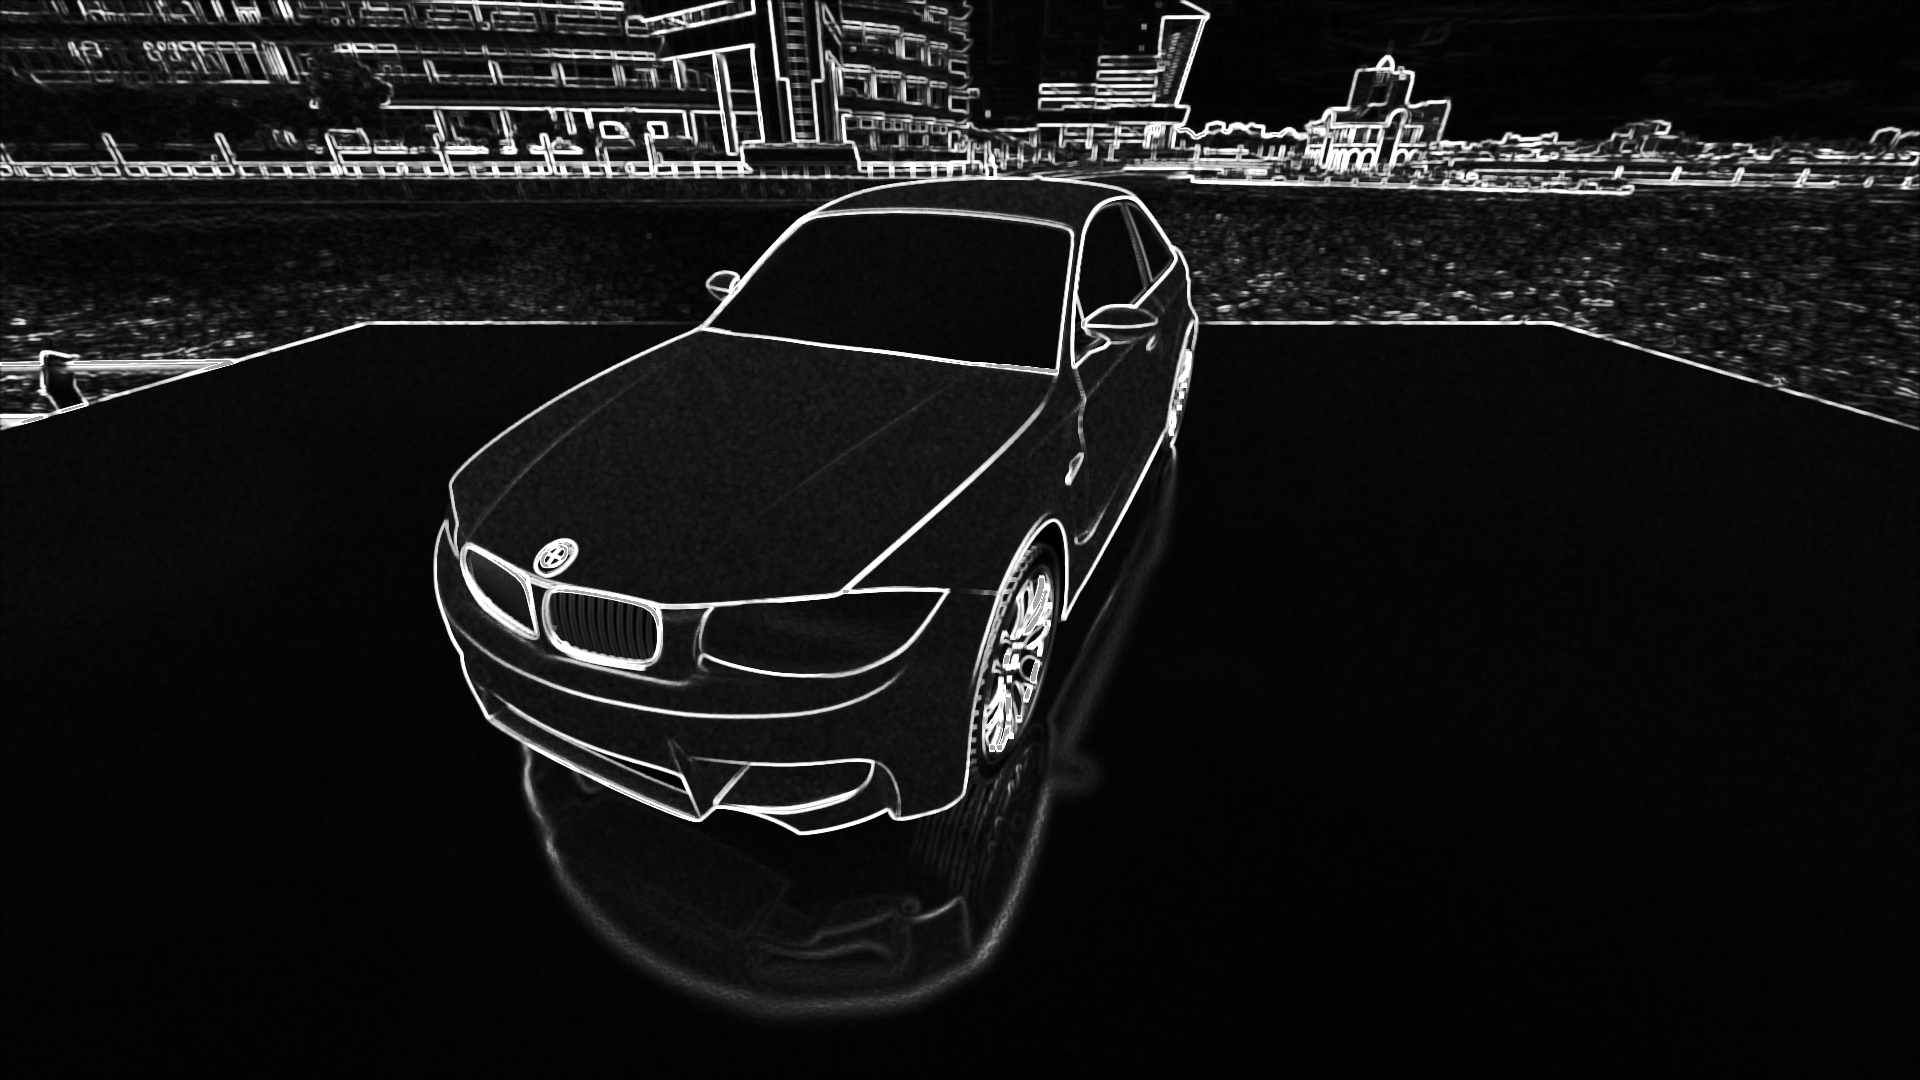
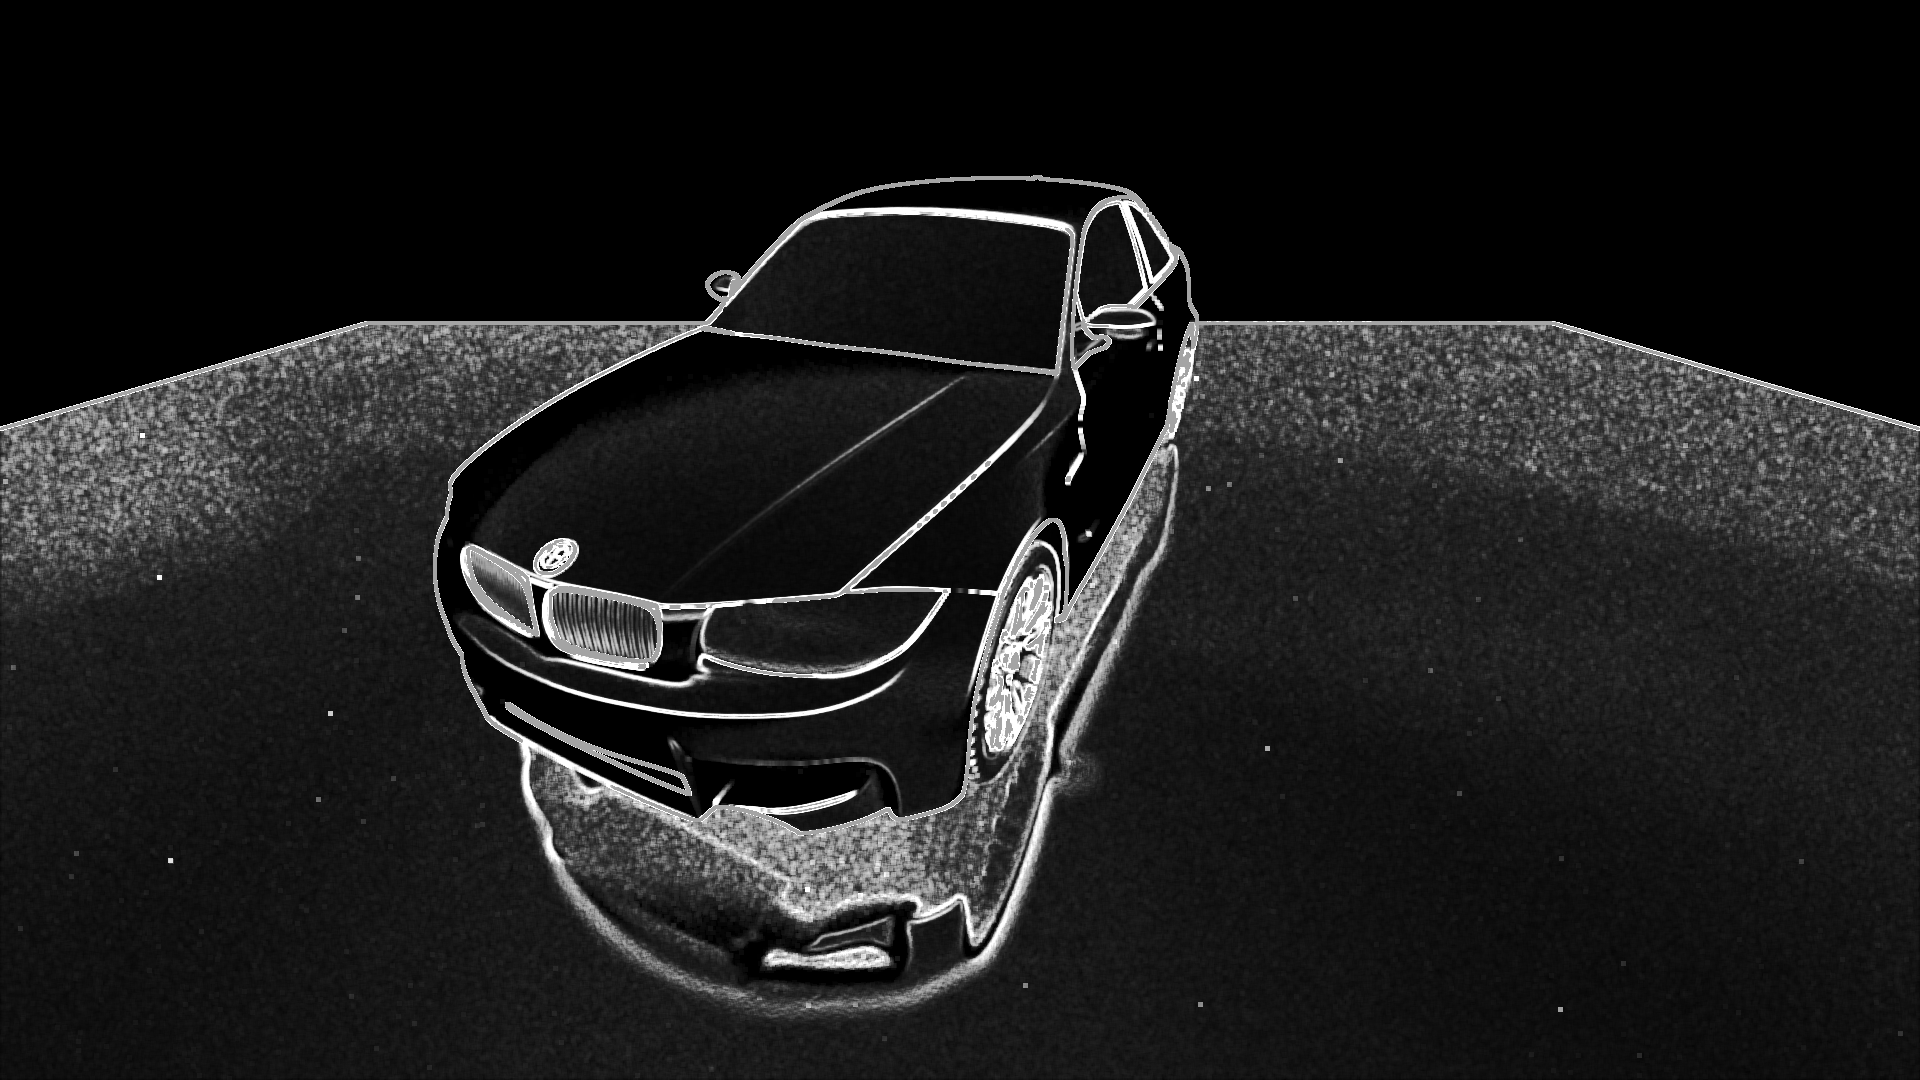
Adding standard deviation

diff --git a/ForceRenderer/Renderers/TileWorker.cs b/ForceRenderer/Renderers/TileWorker.cs
@@ -29,6 +29,8 @@ namespace ForceRenderer.Renderers
 						 Name = $"Tile Worker #{id} {size}x{size}"
 					 };
 
+			for (int i = 0; i < pixels.Length; i++) pixels[i] = Pixel.Create();
+
 			//Create golden ratio square spiral for pixel sample offsets
 			pixelOffsets = new Float2[profile.pixelSample];
 
@@ -156,7 +158,7 @@ namespace ForceRenderer.Renderers
 
 			ref Pixel pixel = ref pixels[pixelIndex];
 			RenderBuffer.SetPixel(position, pixel.Color);
-			pixel = default;
+			pixel.Clear();
 		}
 
 		Int2 ToBufferPosition(int pixelIndex)
@@ -198,30 +200,104 @@ namespace ForceRenderer.Renderers
 
 		struct Pixel
 		{
-			double r;
-			double g;
-			double b;
+			public static Pixel Create() => new Pixel(new object());
+			Pixel(object locker) : this() => this.locker = locker;
+
+			Double3 average;
+			Double3 squared;
 
 			int accumulation;
+			readonly object locker;
+
+			public const double MinDeviationThreshold = 0.3d;
 
 			/// <summary>
 			/// Returns the color average
 			/// </summary>
-			public Color32 Color => new Color32((float)(r / accumulation), (float)(g / accumulation), (float)(b / accumulation));
+			public Color32 Color
+			{
+				get
+				{
+					lock (locker) return (Color32)(Float3)average;
+				}
+			}
+
+			/// <summary>
+			/// Returns the standard deviation of the pixel
+			/// </summary>
+			public float Deviation
+			{
+				get
+				{
+					lock (locker)
+					{
+						double deviation = Math.Sqrt(squared.Max / accumulation);
+						double max = Math.Max(average.Max, MinDeviationThreshold);
+
+						return (float)(deviation / max);
+					}
+				}
+			}
 
 			/// <summary>
 			/// Accumulates the color <paramref name="value"/> to pixel in a thread-safe manner.
 			/// </summary>
 			public void Accumulate(Float3 value)
 			{
-				if (float.IsNaN(value.Sum)) return; //NaN gate
+				if (float.IsNaN(value.x) || float.IsNaN(value.y) || float.IsNaN(value.z)) return; //NaN gate
 
-				InterlockedHelper.Add(ref r, value.x);
-				InterlockedHelper.Add(ref g, value.y);
-				InterlockedHelper.Add(ref b, value.z);
+				lock (locker)
+				{
+					accumulation++;
 
-				Interlocked.Increment(ref accumulation);
+					Double3 oldMean = average;
+					Double3 newValue = value;
+
+					average += (newValue - oldMean) / accumulation;
+					squared += (newValue - average) * (newValue - oldMean);
+				}
 			}
+
+			public void Clear()
+			{
+				lock (locker)
+				{
+					average = default;
+					squared = default;
+					accumulation = 0;
+				}
+			}
+		}
+
+		readonly struct Double3
+		{
+			public Double3(double x, double y, double z)
+			{
+				this.x = x;
+				this.y = y;
+				this.z = z;
+			}
+
+			readonly double x;
+			readonly double y;
+			readonly double z;
+
+			public double Max => Math.Max(x, Math.Max(y, z));
+
+			public static Double3 operator +(Double3 first, Double3 second) => new Double3(first.x + second.x, first.y + second.y, first.z + second.z);
+			public static Double3 operator -(Double3 first, Double3 second) => new Double3(first.x - second.x, first.y - second.y, first.z - second.z);
+
+			public static Double3 operator *(Double3 first, Double3 second) => new Double3(first.x * second.x, first.y * second.y, first.z * second.z);
+			public static Double3 operator /(Double3 first, Double3 second) => new Double3(first.x / second.x, first.y / second.y, first.z / second.z);
+
+			public static Double3 operator *(Double3 first, double second) => new Double3(first.x * second, first.y * second, first.z * second);
+			public static Double3 operator /(Double3 first, double second) => new Double3(first.x / second, first.y / second, first.z / second);
+
+			public static Double3 operator *(double first, Double3 second) => new Double3(first * second.x, first * second.y, first * second.z);
+			public static Double3 operator /(double first, Double3 second) => new Double3(first / second.x, first / second.y, first / second.z);
+
+			public static implicit operator Double3(Float3 value) => new Double3(value.x, value.y, value.z);
+			public static explicit operator Float3(Double3 value) => new Float3((float)value.x, (float)value.y, (float)value.z);
 		}
 	}
 }

diff --git a/ForceRenderer/Renderers/PathTraceWorker.cs b/ForceRenderer/Renderers/PathTraceWorker.cs
@@ -65,7 +65,7 @@ namespace ForceRenderer.Renderers
 				light += energy * sun.intensity * dot.Clamp(0f, 1f);
 			}
 
-			return light;
+			return light.Max(Float3.zero); //Do not clamp up, because emissive samples can go beyond 1f
 		}
 
 		/// <summary>
